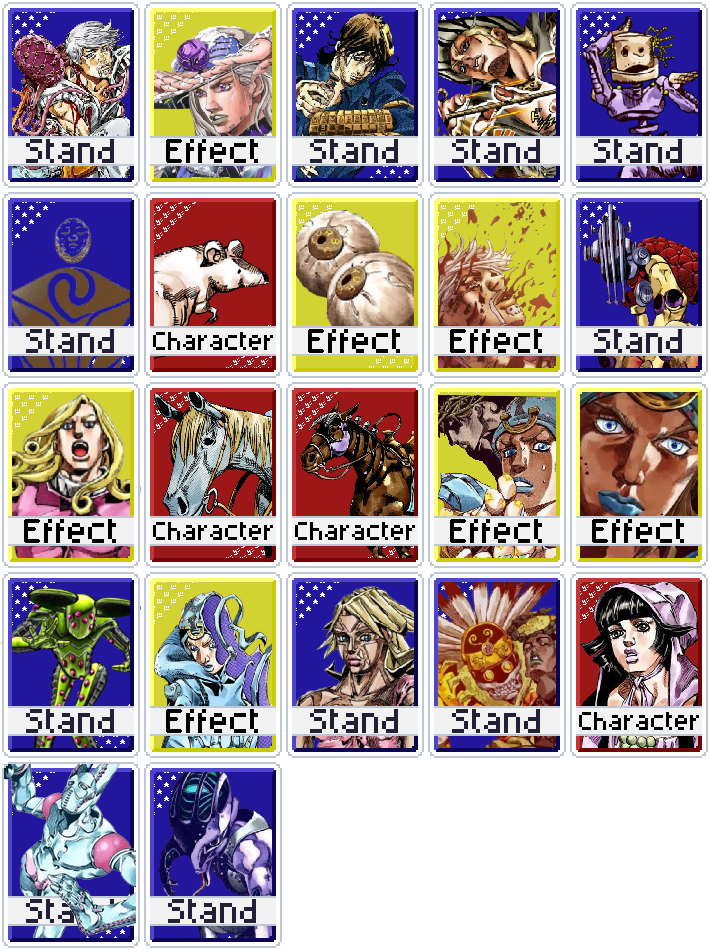
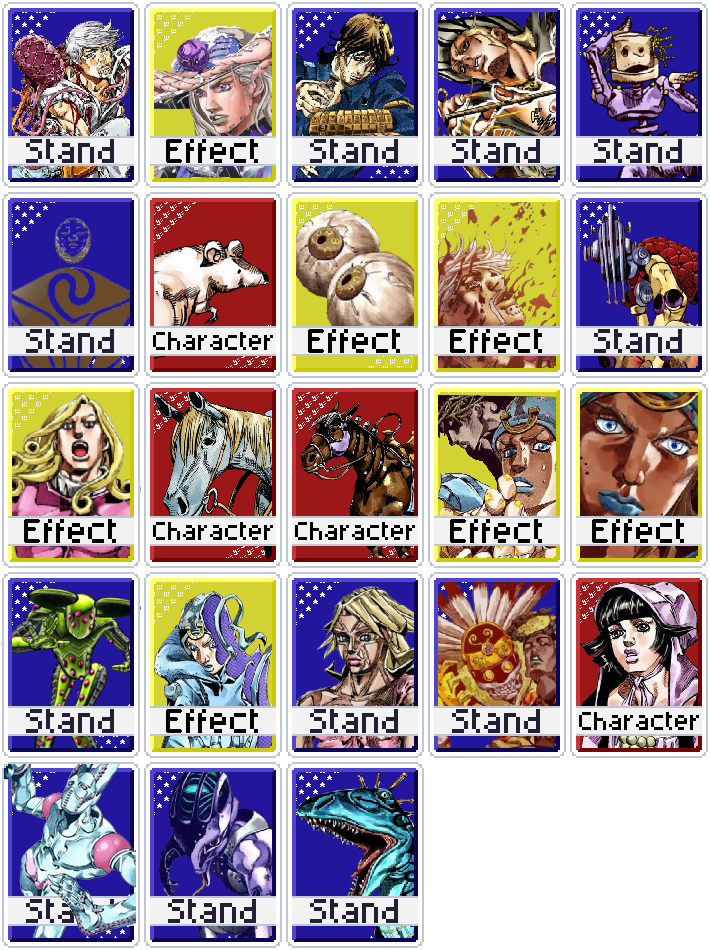
Add Scary Monsters joker

Changed region(s): [[0.4028, 0.7937, 0.5887, 1.0]]

diff --git a/compendium/tests/test_mod_data.py b/compendium/tests/test_mod_data.py
@@ -56,5 +56,5 @@ def test_similar_groups(rel):
 def test_counts_match_themes_doc(mod):
     themes = {t for j in mod.jokers for t in j.themes_core + j.themes_support}
     assert len(themes) == 50
-    assert sum(len(j.conflicts) for j in mod.jokers) == 64
+    assert sum(len(j.conflicts) for j in mod.jokers) == 70
     assert len({g for j in mod.jokers for g in j.similar}) == 26

diff --git a/compendium/labels.py b/compendium/labels.py
@@ -115,5 +115,6 @@ LABELS = Labels(
         'wants_a_bigger_deck': 'wants a bigger deck',
         'makes_every_played_card_score': 'makes every played card score',
         'turns_unscored_cards_into_stone': 'turns unscored cards into Stone cards, which always score',
+        'randomizes_the_suits_these': 'randomizes the suits these rely on',
     },
 )

diff --git a/compendium/tests/test_build.py b/compendium/tests/test_build.py
@@ -28,7 +28,7 @@ def test_outputs_exist(site):
 
 
 def test_data_has_every_joker(data):
-    assert len(data["jokers"]) == 155 and data["version"] == "v9.9.9"
+    assert len(data["jokers"]) == 156 and data["version"] == "v9.9.9"
     assert len(data["themes"]) == 50
 
 

diff --git a/compendium/tests/test_lua_env.py b/compendium/tests/test_lua_env.py
@@ -7,7 +7,7 @@ def find(mod, key):
 
 
 def test_loads_every_joker(mod):
-    assert len(mod.jokers) == 155
+    assert len(mod.jokers) == 156
 
 
 def test_order_is_collection_order(mod):
